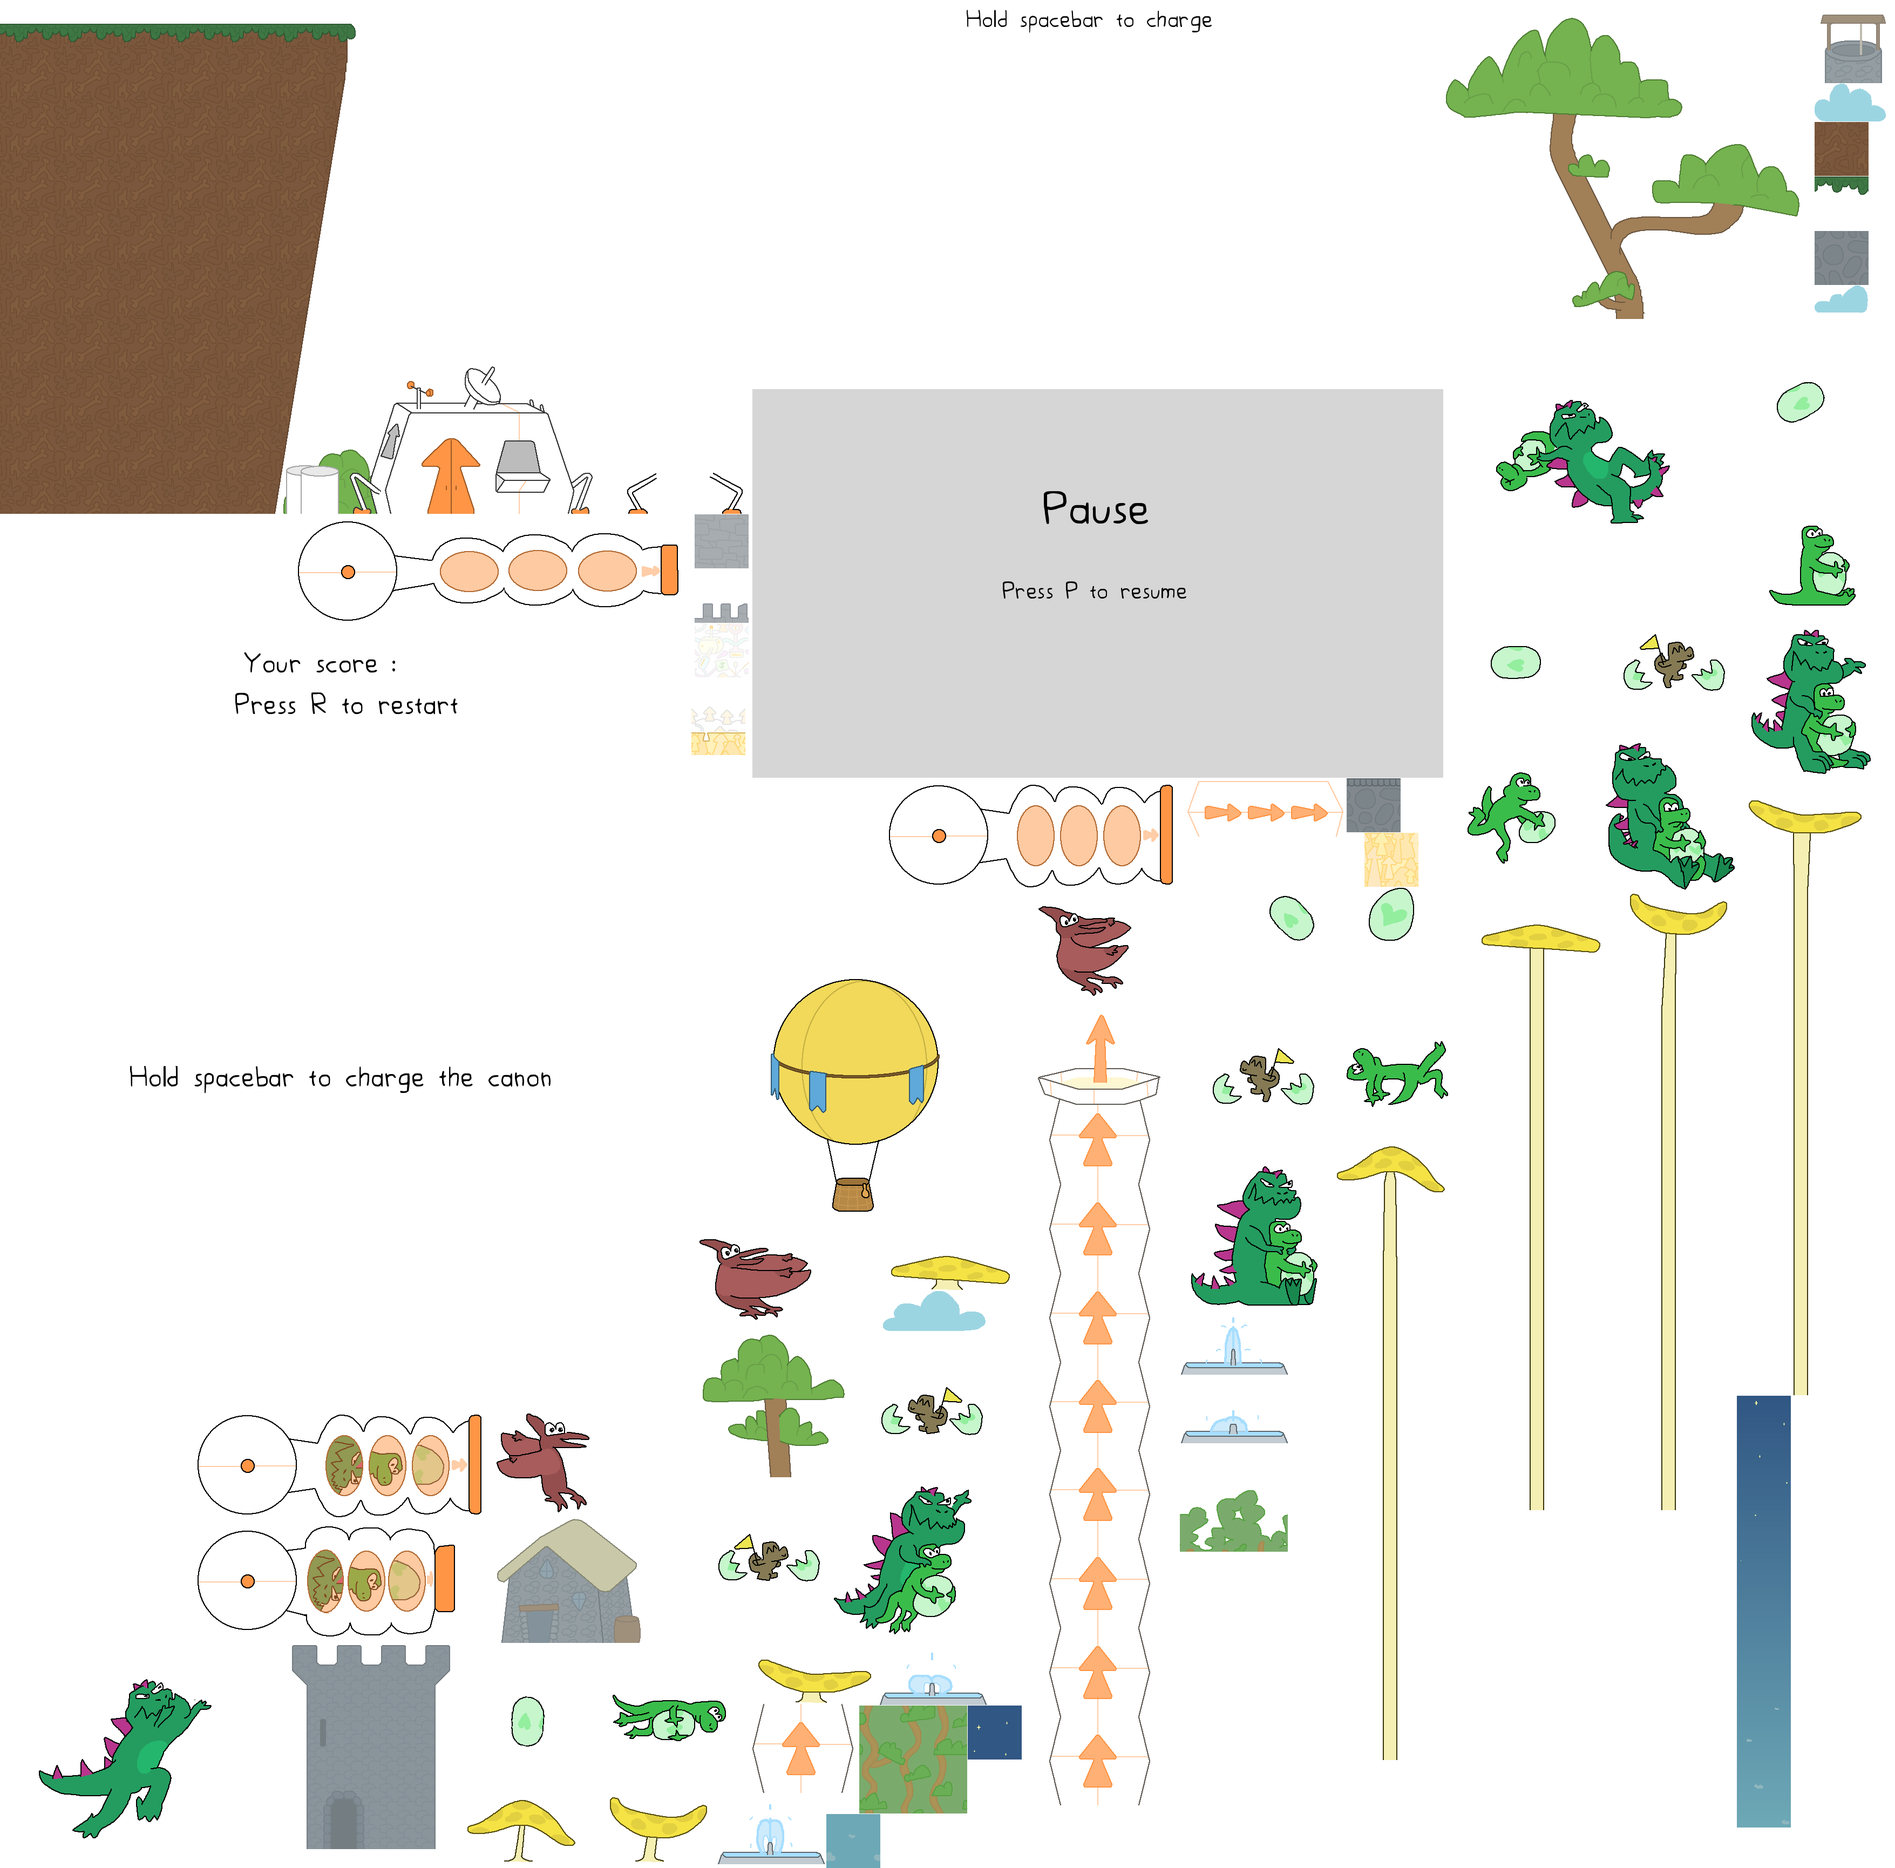
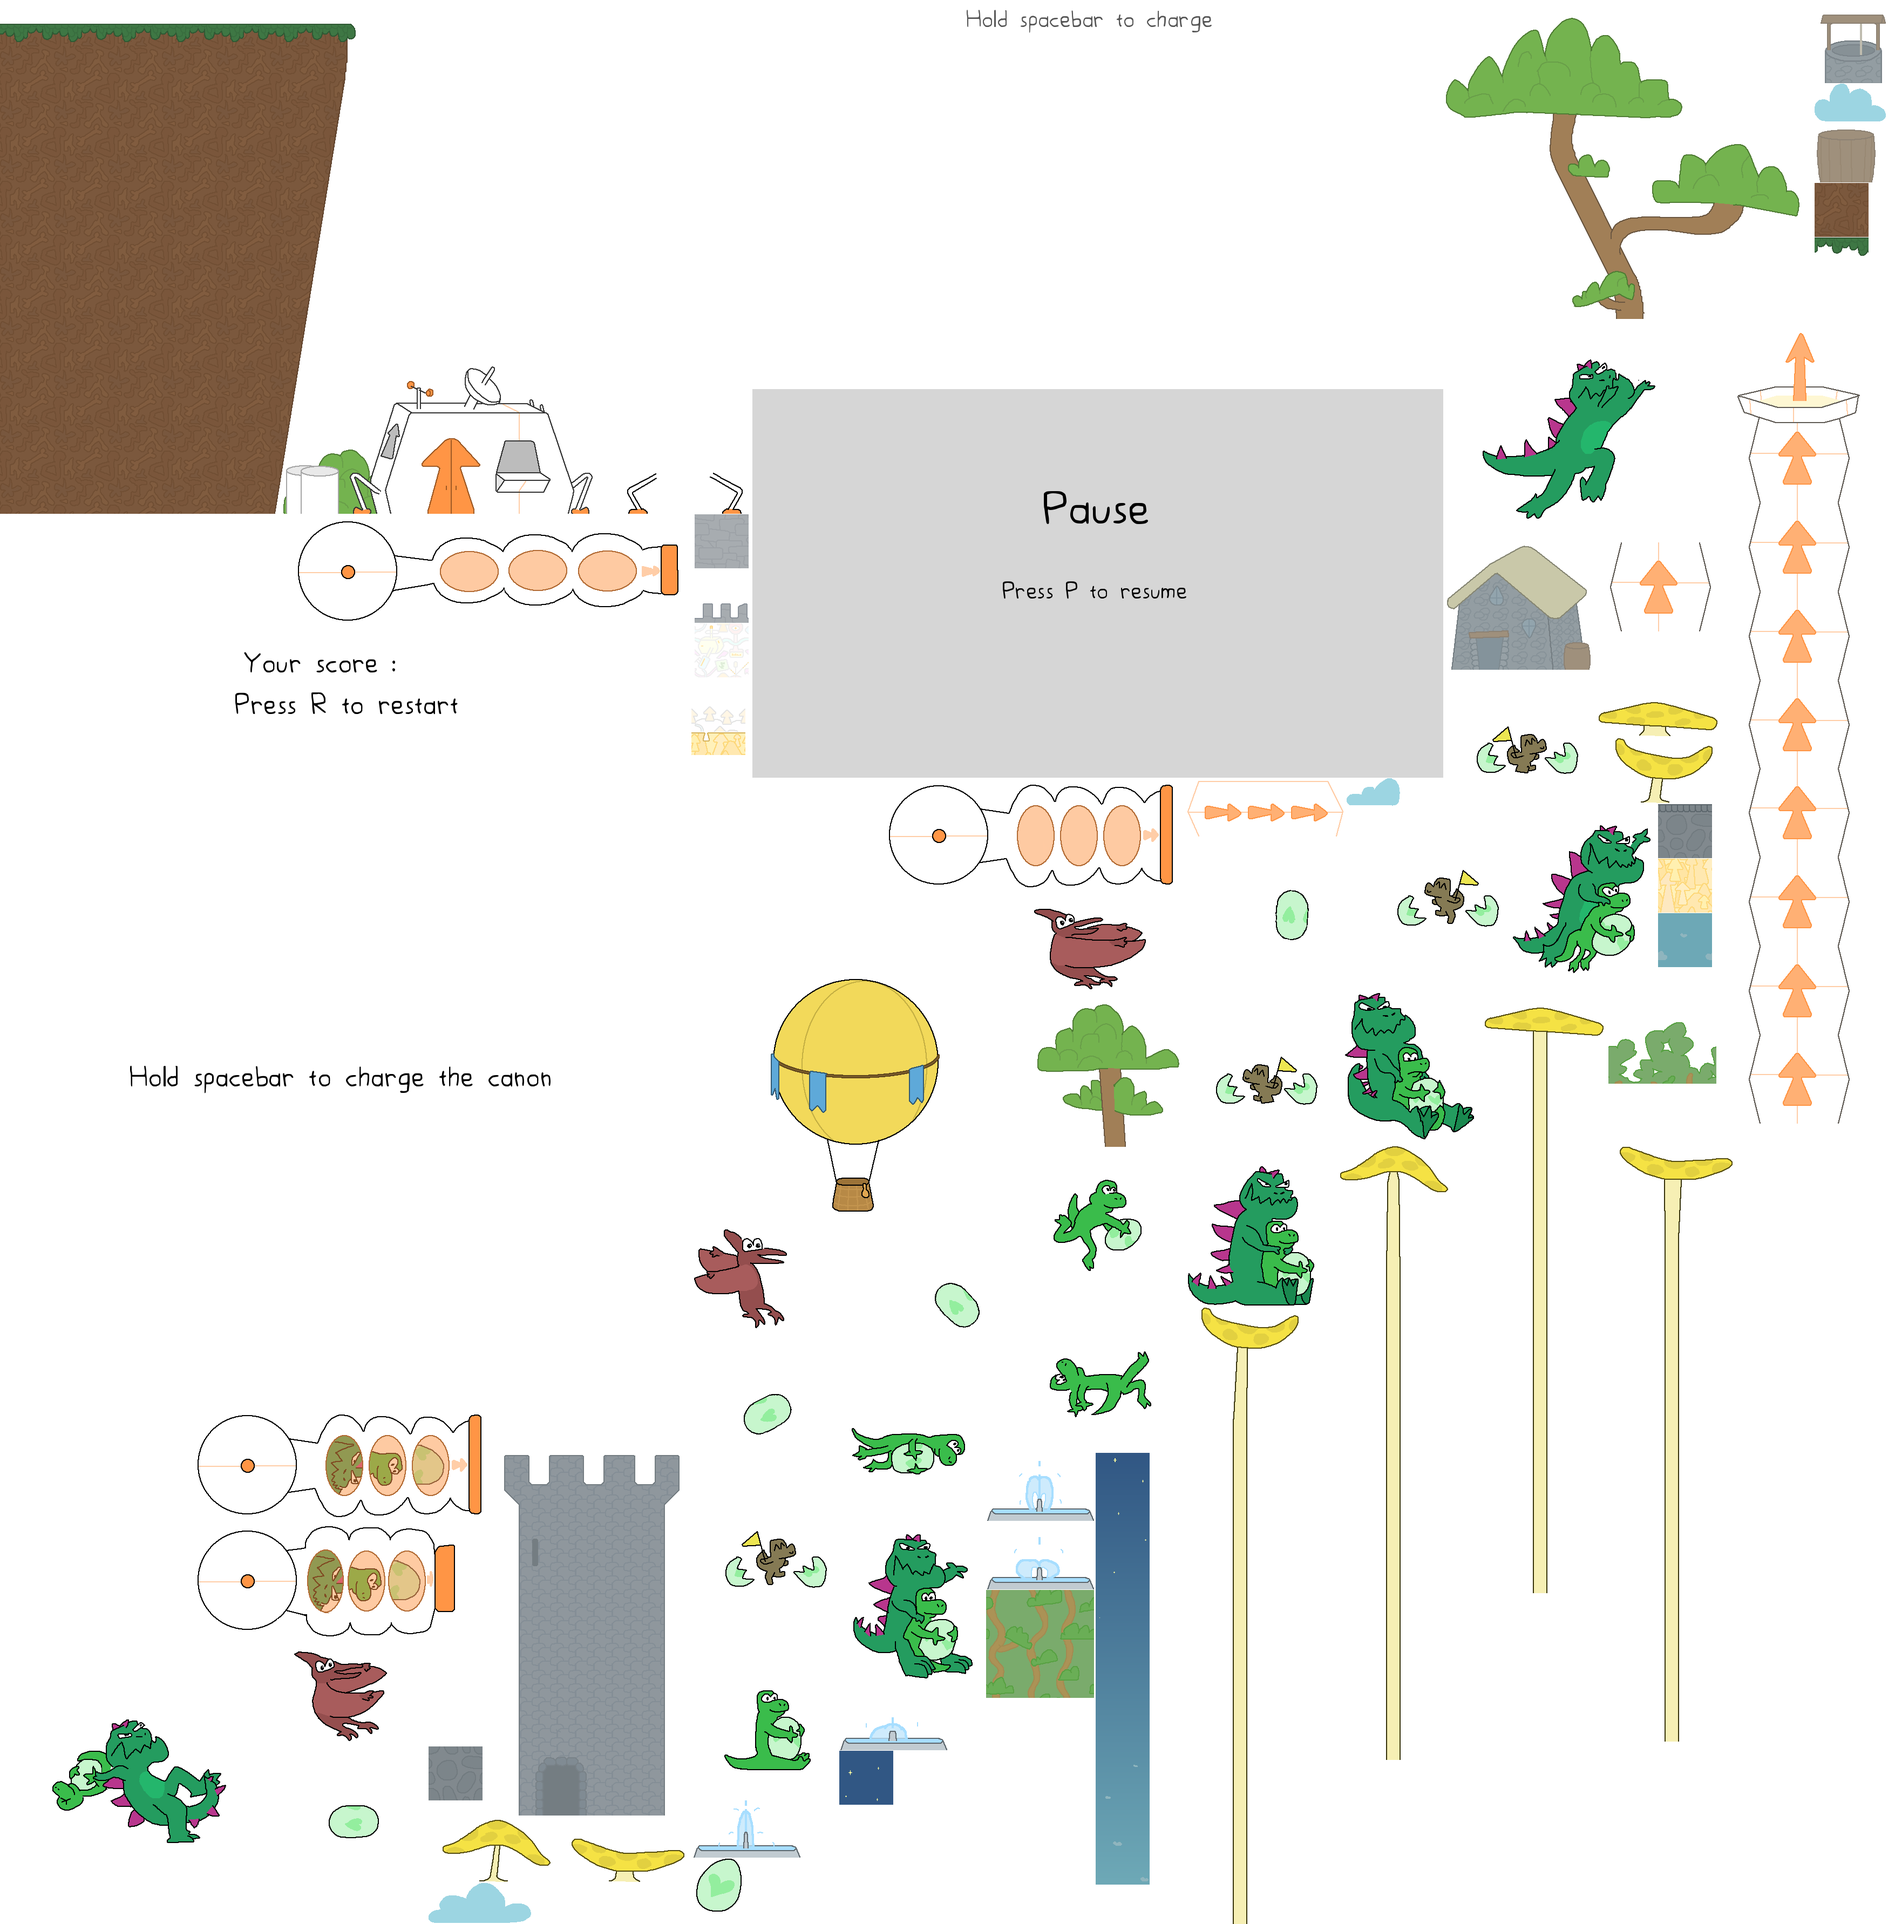
Add middle age decor

diff --git a/Components/WorldGenerator.cs b/Components/WorldGenerator.cs
@@ -25,7 +25,7 @@ class WorldGenerator : Component, IUpdatable
                 
         }
 
-        if (Random.NextInt((int)(300 / probaMultiplier)) == 0)
+        if (Random.NextInt((int)((300 + 400) / probaMultiplier)) == 0)
         {
             if (xPosition < Constants.PREHISTORY_LENGHT_END)
                 generatePrehistoricDecor(xPosition);
@@ -108,11 +108,20 @@ class WorldGenerator : Component, IUpdatable
 
     void generateMiddleAgeDecor(float xPosition)
     {
-        int type = Random.NextInt(1);
+        int type = Random.NextInt(4);
         switch (type)
         {
             case 0:
-
+                tryToAddComponent("maison", new Decor("maison"), new Vector2(xPosition, 0), 100);
+                break;
+            case 1:
+                tryToAddComponent("puit", new Decor("puit"), new Vector2(xPosition, 0), 100);
+                break;
+            case 2:
+                tryToAddComponent("tour", new Decor("tour"), new Vector2(xPosition, 0), 100);
+                break;
+            case 3:
+                tryToAddComponent("tonneau", new Decor("tonneau"), new Vector2(xPosition, 0), 100);
                 break;
         }
     }
